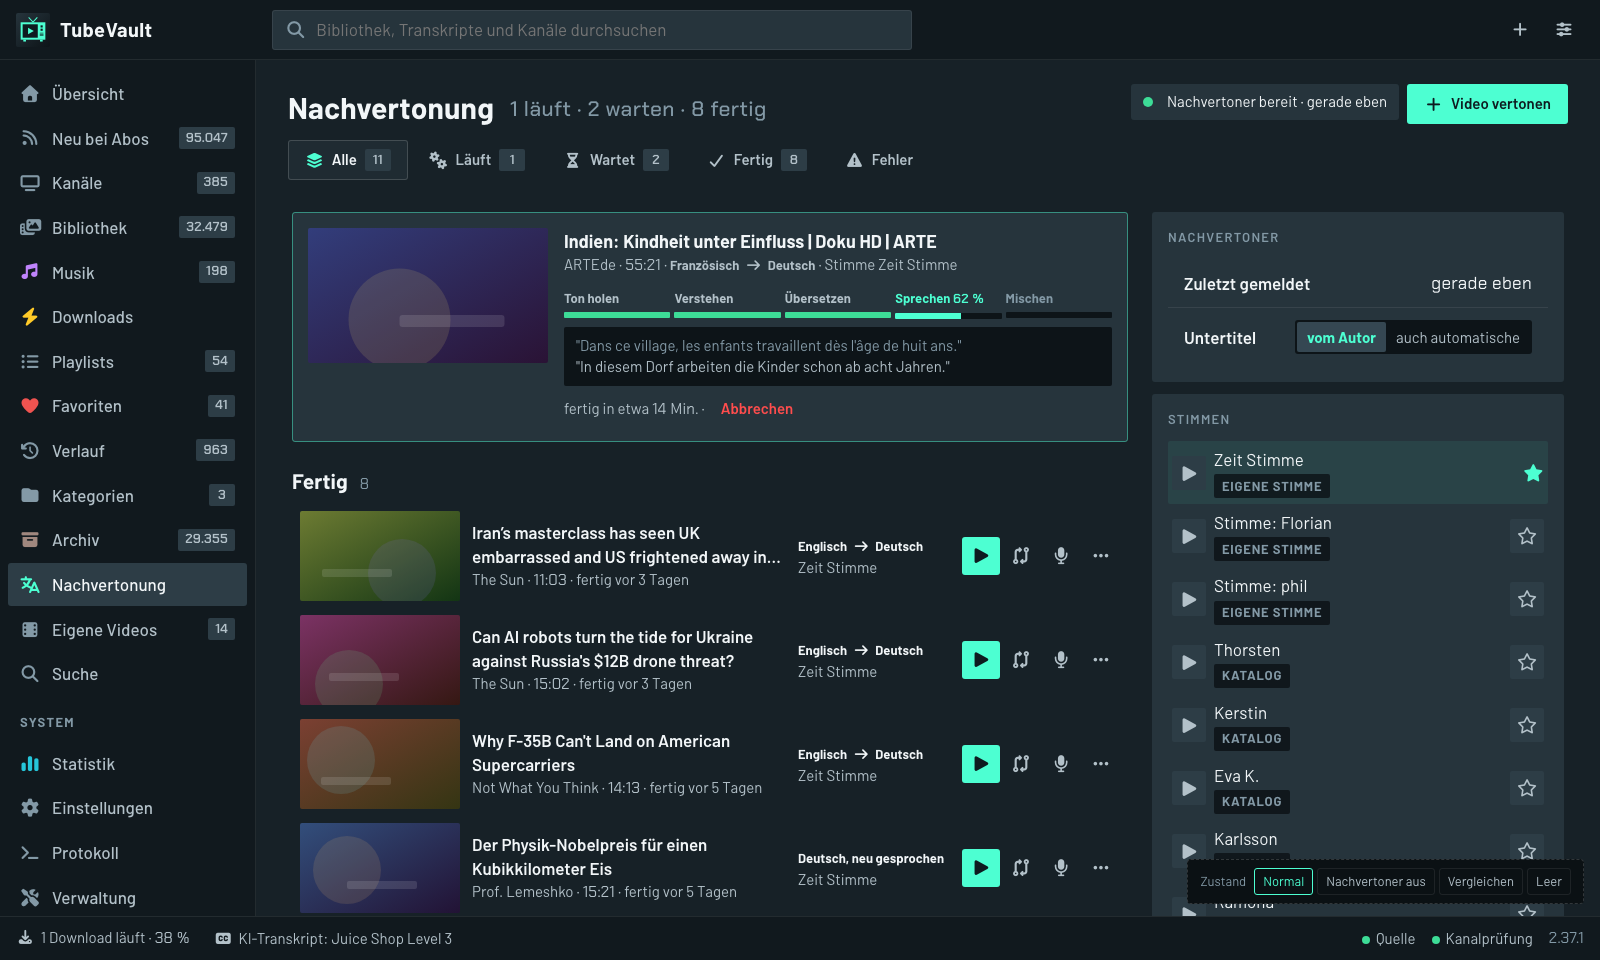
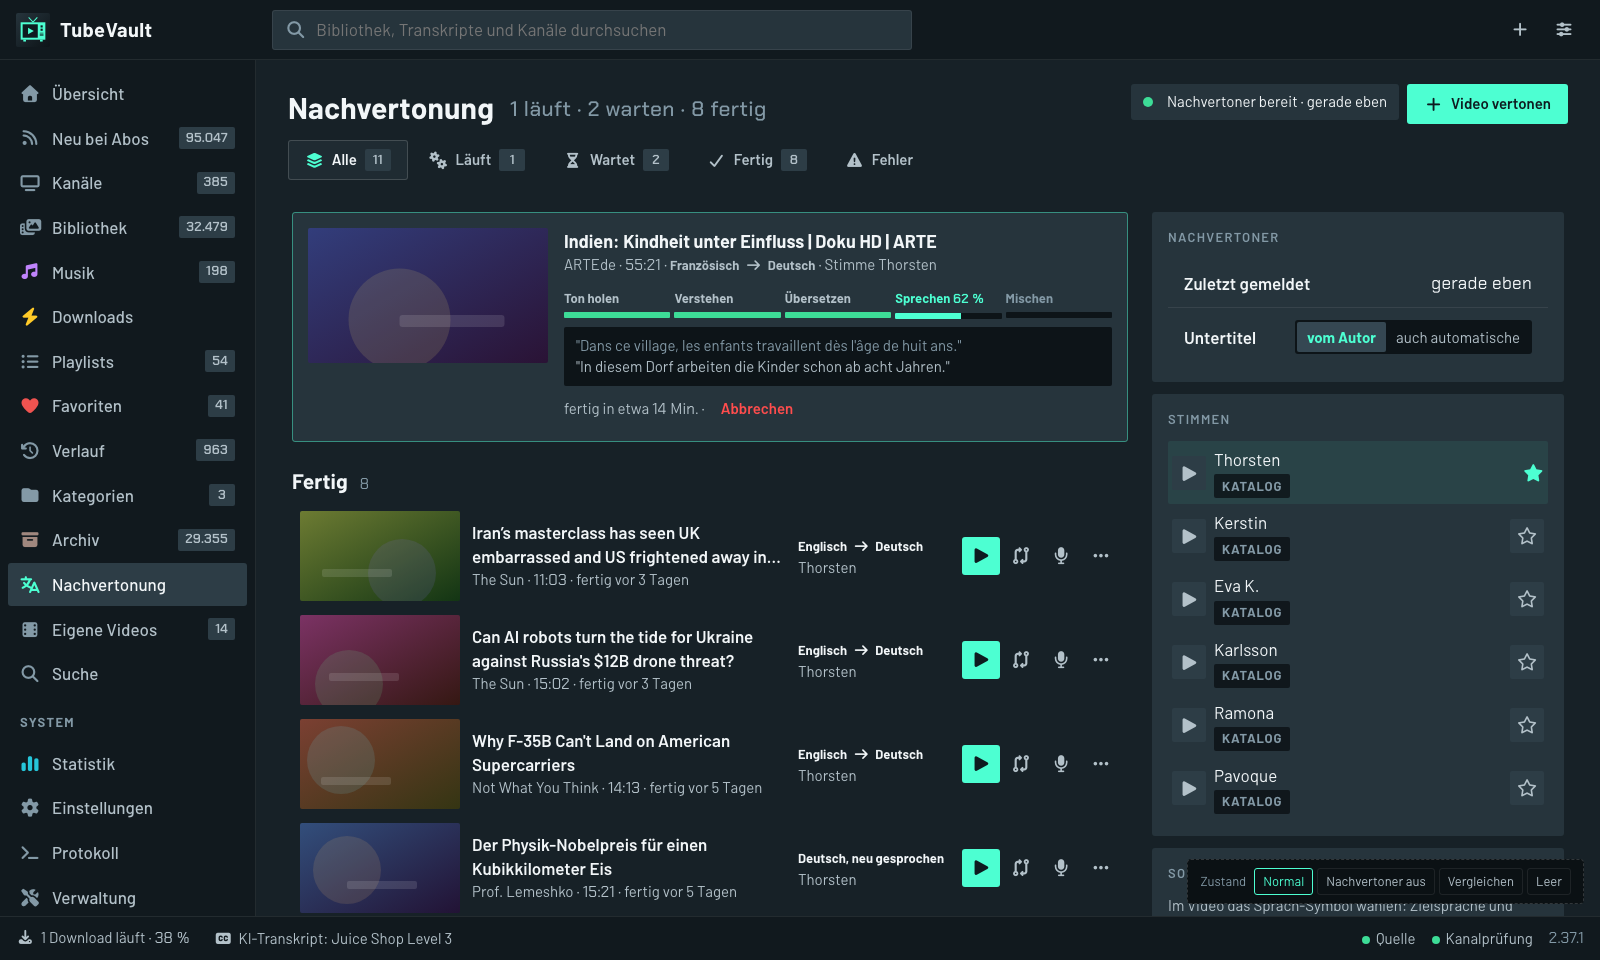
Eigene Stimmen aus Entwurf und Bildern, Handy-App lädt Updates zwingend
- Entwurf und Bilder der Nachvertonung zeigen nur Katalog-Stimmen
- Handy-App: nach einem Update sofort neu laden, wenn nichts spielt,
  sonst beim nächsten Anhalten (nie mitten im Titel)
- Musik: Kopf einer geöffneten Gruppe und Spaltenköpfe bleiben beim Rollen stehen

diff --git a/frontend/src/lib/utils/versionWatch.js b/frontend/src/lib/utils/versionWatch.js
@@ -4,6 +4,8 @@
 // Zurückkehren in den Tab ab. Ist eine neue Version ausgeliefert:
 //   - in den ersten Sekunden nach dem Start oder im verdeckten Tab sofort neu laden,
 //   - sonst beim nächsten Seitenwechsel; bis dahin zeigt eine Leiste den Knopf.
+// Erzwungen (Handy-App, { eager: true }): sofort, sobald nichts spielt - läuft
+// Ton oder Video, beim nächsten Anhalten (nie mitten im Titel).
 // Je Version nur ein selbsttätiger Versuch (sessionStorage) - keine Schleifen.
 import { writable, get } from 'svelte/store';
 import { FE_VERSION } from '../api/client.js';
@@ -11,11 +13,14 @@ import { FE_VERSION } from '../api/client.js';
 const QUICK_RELOAD_MS = 10000;    // so lange nach dem Start wird sofort neu geladen
 const CHECK_EVERY_MS = 60000;
 const GUARD_KEY = 'tv.neu_geladen';
+const PAUSE_SETTLE_MS = 1500;     // Titelwechsel pausiert kurz - erst danach gilt "angehalten"
 
 /** Neue, schon ausgelieferte Version (null, solange die laufende aktuell ist). */
 export const newVersion = writable(null);
 
 const startedAt = Date.now();
+
+let eager = false;
 
 /** Neu laden (eigene Stelle, damit Tests es beobachten können). */
 export const page = { reload: () => location.reload() };
@@ -49,19 +54,36 @@ async function check() {
   } catch { return; }   // Server gerade nicht erreichbar: beim nächsten Mal
   if (!version || version === FE_VERSION) return;
   newVersion.set(version);
-  if (Date.now() - startedAt < QUICK_RELOAD_MS || document.hidden) reloadOnce(version);
+  if (eager || Date.now() - startedAt < QUICK_RELOAD_MS || document.hidden) reloadOnce(version);
 }
 
-/** Wache starten; route: Store, der sich bei jedem Seitenwechsel meldet. */
-export function startVersionWatch(route) {
-  if (FE_VERSION === 'dev') return;   // ohne eingebaute Version (Tests)
+/** Erzwungen: hält die Wiedergabe an (und bleibt angehalten), wird neu geladen */
+function reloadWhenStopped() {
+  const version = get(newVersion);
+  if (version) setTimeout(() => reloadOnce(version), PAUSE_SETTLE_MS);
+}
+
+/** Wache starten; route: Store, der sich bei jedem Seitenwechsel meldet.
+ *  eager: Update erzwingen, sobald nichts spielt (Handy-App).
+ *  Liefert eine Funktion, die die Wache wieder abbaut. */
+export function startVersionWatch(route, { eager: force = false } = {}) {
+  if (FE_VERSION === 'dev') return () => {};   // ohne eingebaute Version (Tests)
+  eager = force;
+  const onVisible = () => { if (!document.hidden) check(); };
+  const listeners = [['visibilitychange', onVisible, false]];
+  if (eager) listeners.push(['pause', reloadWhenStopped, true], ['ended', reloadWhenStopped, true]);
+  listeners.forEach(([name, handler, capture]) => document.addEventListener(name, handler, capture));
   check();
-  setInterval(check, CHECK_EVERY_MS);
-  document.addEventListener('visibilitychange', () => { if (!document.hidden) check(); });
+  const timer = setInterval(check, CHECK_EVERY_MS);
   let first = true;
-  route.subscribe(() => {
+  const unsubscribe = route.subscribe(() => {
     if (first) { first = false; return; }
     const version = get(newVersion);
     if (version) reloadOnce(version);
   });
+  return () => {
+    clearInterval(timer);
+    unsubscribe();
+    listeners.forEach(([name, handler, capture]) => document.removeEventListener(name, handler, capture));
+  };
 }

diff --git a/frontend/src/tests/versionWatch.test.js b/frontend/src/tests/versionWatch.test.js
@@ -6,16 +6,17 @@ import { writable, get } from 'svelte/store';
 
 vi.mock('../lib/api/client.js', () => ({ FE_VERSION: '1.0.0' }));
 
+const stops = [];   // jede gestartete Wache wird nach dem Test wieder abgebaut
 const served = (version) => vi.fn(async () => ({ json: async () => ({ version }) }));
 
-async function start({ version, after = 0 }) {
+async function start({ version, after = 0, eager = false }) {
   vi.resetModules();
   vi.stubGlobal('fetch', served(version));
   const watch = await import('../lib/utils/versionWatch.js');
   const reload = vi.spyOn(watch.page, 'reload').mockImplementation(() => {});
   vi.setSystemTime(Date.now() + after);
   const route = writable('/');
-  watch.startVersionWatch(route);
+  stops.push(watch.startVersionWatch(route, { eager }));
   await vi.waitFor(() => expect(fetch).toHaveBeenCalled());
   await new Promise(r => setTimeout(r));
   return { watch, reload, route };
@@ -28,6 +29,7 @@ describe('Versionswache', () => {
     document.body.innerHTML = '';
   });
   afterEach(() => {
+    stops.splice(0).forEach((stop) => stop());
     vi.useRealTimers();
     vi.unstubAllGlobals();
   });
@@ -60,5 +62,40 @@ describe('Versionswache', () => {
     const { reload, route } = await start({ version: '1.1.0' });
     route.set('/downloads');
     expect(reload).not.toHaveBeenCalled();
+  });
+
+  it('Handy-App: lädt sofort neu, sobald nichts spielt, auch bei offener Seite', async () => {
+    const { reload } = await start({ version: '1.1.0', after: 20000, eager: true });
+    expect(reload).toHaveBeenCalledTimes(1);
+  });
+
+  it('Handy-App: lässt den laufenden Titel zu Ende spielen und lädt beim Anhalten neu', async () => {
+    vi.useRealTimers();   // neu einrichten, diesmal mit setTimeout (Wartezeit nach dem Anhalten)
+    vi.useFakeTimers({ toFake: ['Date', 'setInterval', 'setTimeout'] });
+    const audio = document.createElement('audio');
+    let paused = false;
+    Object.defineProperty(audio, 'paused', { get: () => paused });
+    document.body.append(audio);
+    vi.resetModules();
+    vi.stubGlobal('fetch', served('1.1.0'));
+    const watch = await import('../lib/utils/versionWatch.js');
+    const reload = vi.spyOn(watch.page, 'reload').mockImplementation(() => {});
+    vi.setSystemTime(Date.now() + 20000);
+    stops.push(watch.startVersionWatch(writable('/'), { eager: true }));
+    await vi.waitFor(() => expect(get(watch.newVersion)).toBe('1.1.0'));
+    expect(reload).not.toHaveBeenCalled();
+
+    // Titelwechsel: kurz angehalten, gleich weiter - kein Neuladen
+    paused = true;
+    audio.dispatchEvent(new Event('pause'));
+    paused = false;
+    vi.advanceTimersByTime(2000);
+    expect(reload).not.toHaveBeenCalled();
+
+    // Angehalten und bleibt so: jetzt
+    paused = true;
+    audio.dispatchEvent(new Event('pause'));
+    vi.advanceTimersByTime(2000);
+    expect(reload).toHaveBeenCalledTimes(1);
   });
 });

diff --git a/mockups/nachvertonung.html b/mockups/nachvertonung.html
@@ -77,8 +77,9 @@
     ['TIS_NfTO_7w', 'Der Physik-Nobelpreis für einen Kubikkilometer Eis', 'Prof. Lemeshko', 921, 'vor 5 Tagen', 'de'],
     ['-gfgQfw2g_E', 'Build & Train a GLM-5.3-Flash Model From Scratch with Python', 'freeCodeCamp.org', 2666, 'vor 8 Tagen'],
   ];
-  const STIMMEN = [['Zeit Stimme', 'eigene Stimme', true], ['Stimme: Florian', 'eigene Stimme'], ['Stimme: phil', 'eigene Stimme'], ['Thorsten', 'Katalog'],
-                   ['Kerstin', 'Katalog'], ['Eva K.', 'Katalog'], ['Karlsson', 'Katalog'], ['Ramona', 'Katalog'], ['Pavoque', 'Katalog']];
+  // Nur Katalog-Stimmen: eigene Stimmen erscheinen nie in Entwürfen oder Bildern
+  const STIMMEN = [['Thorsten', 'Katalog', true], ['Kerstin', 'Katalog'], ['Eva K.', 'Katalog'], ['Karlsson', 'Katalog'],
+                   ['Ramona', 'Katalog'], ['Pavoque', 'Katalog']];
 
   const KOPF = (aus) => `
     <div class="rahmen-kopf">
@@ -104,7 +105,7 @@
       <img src="${bild('JZKdej7uHLA')}" alt="">
       <div>
         <div class="titel">Indien: Kindheit unter Einfluss | Doku HD | ARTE</div>
-        <div class="leise klein">ARTEde · <span class="zahl">55:21</span> · <span class="sprachen">Französisch <i class="fa-solid fa-arrow-right"></i> Deutsch</span> · Stimme Zeit Stimme</div>
+        <div class="leise klein">ARTEde · <span class="zahl">55:21</span> · <span class="sprachen">Französisch <i class="fa-solid fa-arrow-right"></i> Deutsch</span> · Stimme Thorsten</div>
         <div class="schritte">
           <div class="schritt fertig"><span>Ton holen</span><div class="balken"><b></b></div></div>
           <div class="schritt fertig"><span>Verstehen</span><div class="balken"><b></b></div></div>
@@ -122,7 +123,7 @@
     return `<div class="auftrag">
       <img src="${bild(id)}" alt="">
       <div><div class="t">${titel}</div><div class="m">${kanal} · <span class="zahl">${dauer(d)}</span> · fertig ${wann}</div></div>
-      <div><span class="sprachen">${neu ? 'Deutsch, neu gesprochen' : 'Englisch <i class="fa-solid fa-arrow-right"></i> Deutsch'}</span><div class="m">Zeit Stimme</div></div>
+      <div><span class="sprachen">${neu ? 'Deutsch, neu gesprochen' : 'Englisch <i class="fa-solid fa-arrow-right"></i> Deutsch'}</span><div class="m">Thorsten</div></div>
       <div class="tun">
         <button class="spielen" title="Auf Deutsch abspielen"><i class="fa-solid fa-play"></i></button>
         <button title="Original und Neu im Wechsel vergleichen"><i class="fa-solid fa-code-compare"></i></button>

diff --git a/frontend/src/routes/Music.svelte b/frontend/src/routes/Music.svelte
@@ -54,6 +54,7 @@
   let overview = $state(null);
   let groups = $state([]);                             // Interpreten, Alben, Kanäle, Wiedergabelisten
   let groupTracks = $state(null);                      // Titel der geöffneten Gruppe oder des Verlaufs
+  let groupHeadHeight = $state(0);                     // Höhe des stehenden Gruppenkopfs (Spaltenköpfe darunter)
   let books = $state([]);                              // Hörbücher (eigener Bereich)
   let loading = $state(false);
   let menu;
@@ -238,7 +239,7 @@
     <div class="tv-rollfeld" data-scroll-root>
       {#if source}
         <!-- Geöffnete Gruppe: Interpret, Album, Kanal, Wiedergabeliste, Mix -->
-        <div class="gruppenkopf">
+        <div class="gruppenkopf" bind:clientHeight={groupHeadHeight}>
           <button class="tv-knopf ohne klein" onclick={() => { source = null; updateParams({ quelle: null }); }}>
             <i class="fa-solid fa-arrow-left"></i> Zurück</button>
           {#if groupTracks}
@@ -258,7 +259,7 @@
           {/if}
         </div>
         {#if groupTracks}
-          <TrackTable tracks={groupTracks.tracks} onMenu={openMenu} onFavorite={favorite}
+          <TrackTable tracks={groupTracks.tracks} onMenu={openMenu} onFavorite={favorite} stickyTop={`calc(${groupHeadHeight}px - var(--tv-a2))`}
                       onPlay={(i) => playFrom(groupTracks.tracks, i, groupName, source)} />
         {:else if loading}
           <div class="tv-leer"><i class="fa-solid fa-spinner fa-spin"></i> Lädt ...</div>
@@ -494,7 +495,9 @@
   .mix i { font-size: 24px; color: var(--tv-art-musik); }
   .mix:hover { filter: brightness(1.15); }
 
-  .gruppenkopf { display: flex; align-items: center; gap: var(--tv-a4); flex-wrap: wrap; margin-bottom: var(--tv-a4); }
+  /* Kopf der geöffneten Gruppe bleibt beim Rollen stehen, die Spaltenköpfe direkt darunter */
+  .gruppenkopf { position: sticky; top: calc(-1 * var(--tv-a2)); z-index: 3; display: flex; align-items: center; gap: var(--tv-a4);
+                 flex-wrap: wrap; margin: calc(-1 * var(--tv-a2)) 0 0; padding: var(--tv-a3) 0; background: var(--tv-grund); }
   .gruppen-titel h2 { margin: 0; font-size: 26px; }
   .gruppenkopf .tasten { margin-left: auto; display: flex; gap: var(--tv-a2); }
   .leiste { display: flex; align-items: center; gap: var(--tv-a2); flex-wrap: wrap; margin-bottom: var(--tv-a3); }

diff --git a/frontend/src/lib/components/music/TrackTable.svelte b/frontend/src/lib/components/music/TrackTable.svelte
@@ -1,6 +1,7 @@
 <!--
   Titelliste der Musik: dicht, ein Klick spielt ab dieser Stelle (onPlay
-  bekommt den Index), Herz und Menü je Zeile.
+  bekommt den Index), Herz und Menü je Zeile. Mit stickyTop (CSS-Länge) bleiben die
+  Spaltenköpfe beim Rollen stehen, unter einem ebenfalls stehenden Kopf.
 -->
 <script>
   import { api } from '../../api/client.js';
@@ -8,11 +9,13 @@
   import { musicPlayer as player } from '../../stores/musicPlayer.svelte.js';
   import { formatDuration } from '../../utils/format.js';
 
-  let { tracks = [], numbered = true, showPlays = false, onPlay = () => {}, onMenu = () => {}, onFavorite = () => {} } = $props();
+  let { tracks = [], numbered = true, showPlays = false, stickyTop = null,
+        onPlay = () => {}, onMenu = () => {}, onFavorite = () => {} } = $props();
 </script>
 
 <div class="liste">
-  <div class="zeile kopfzeile" class:mit-zahl={showPlays}>
+  <div class="zeile kopfzeile" class:mit-zahl={showPlays} class:haftend={stickyTop !== null}
+       style:top={stickyTop}>
     <span class="nr">{numbered ? '#' : ''}</span><span></span><span>Titel</span><span>Interpret</span>
     {#if showPlays}<span>Gehört</span>{/if}<span>Dauer</span><span></span><span></span>
   </div>
@@ -48,6 +51,7 @@
   .kopfzeile { cursor: default; font-size: var(--tv-gr-marke); font-weight: 700; letter-spacing: 0.08em; text-transform: uppercase;
                color: var(--tv-text-3); }
   .kopfzeile:hover { background: none; }
+  .kopfzeile.haftend { position: sticky; z-index: 2; background: var(--tv-grund); border-radius: 0; }
   .nr { text-align: right; color: var(--tv-text-3); font-family: var(--tv-schrift-zahl); }
   .nr .spielen { display: none; color: var(--tv-text); }
   .zeile:not(.kopfzeile):hover .nr .ziffer { display: none; }

diff --git a/frontend/src/mobile/MobileApp.svelte b/frontend/src/mobile/MobileApp.svelte
@@ -33,7 +33,8 @@
   let visited = $state(new Set());
 
   loadSettings().finally(() => { ready = true; });
-  startVersionWatch(route);   // nach einem Update selbst neu laden
+  // Nach einem Update neu laden: sofort, wenn nichts spielt, sonst beim nächsten Anhalten
+  startVersionWatch(route, { eager: true });
 
   // Fernsteuerung: dieses Handy ist ein Gerät; übernommene Wiedergaben öffnen sich hier
   remote.start({

diff --git a/backend/app/config.py b/backend/app/config.py
@@ -44,7 +44,7 @@ DEFAULT_FORMAT = os.getenv("DEFAULT_FORMAT", "mp4")
 CHUNK_SIZE = int(os.getenv("CHUNK_SIZE", str(1024 * 1024)))  # 1MB
 
 # Versioning
-VERSION = "2.61.4"
+VERSION = "2.61.5"
 APP_NAME = "TubeVault"
 
 # CORS – immer offen, keine Einschränkungen
